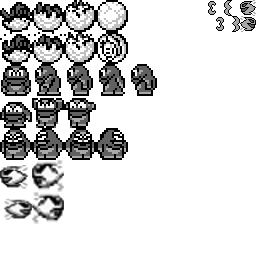
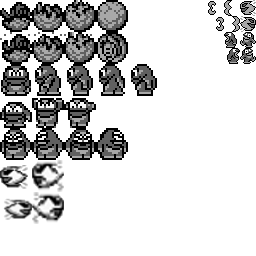
enemy shoot fix
as

Changed region(s): [[0.0, 0.0, 0.5, 0.25], [0.875, 0.125, 1.0, 0.25], [0.0, 0.125, 0.0312, 0.1562]]

diff --git a/EnemyOne.cpp b/EnemyOne.cpp
@@ -11,7 +11,53 @@ EnemyOne::EnemyOne(void)
 void EnemyOne::Draw(int tex_id) {
 	for (int i = 0; i < int(projectiles.size()); ++i) 
 		projectiles[i].Draw(tex_id);
-	Enemy::Draw(tex_id);
+	float xo,yo,xf,yf;
+	
+	switch(state)
+	{
+		case STATE_WALKLEFT:	xo = 0.125f*(1+GetFrame());	yo = 3*0.125f;
+								xf =  0.125f*(2+GetFrame());	yf = 2*0.125; NextFrame(4);
+								break;
+
+		case STATE_WALKRIGHT:	xf = 0.125f*(1+GetFrame());	yo = 3*0.125f;
+								xo =  0.125f*(2+GetFrame());	yf = 2*0.125; NextFrame(4);
+								break;
+
+		case STATE_JUMPLEFT:	xo = 0.125f*(GetFrame());	yo = 4*0.125f;
+								xf =  0.125f*(1+GetFrame());	yf = 3*0.125; NextFrame(3);
+								break;
+		
+		case STATE_JUMPRIGHT:	xf = 0.125f*(GetFrame());	 yo = 4*0.125f;
+								xo =  0.125f*(1+GetFrame());	yf = 3*0.125; NextFrame(3);
+								break;
+		
+		case STATE_LOOKLEFT:	xo = 0;	 yo = 3*0.125f;
+								xf =  0.125f;	yf = 2*0.125; 
+								break;
+		
+		case STATE_LOOKRIGHT:	xo = 0;	 yo = 3*0.125f;
+								xf =  0.125f;	yf = 2*0.125; 
+								break;
+		case STATE_HIT:			xo=0.125*(life-1); xf=xo+0.125;
+								yo=(GetFrame()+1)*0.125; yf = GetFrame()*0.125;
+								NextFrame(2);
+								break;
+		case STATE_SNOWBALL:	xo=0.125*(life-1); xf=xo+0.125; yo=0.125; yf = 0;
+								break;
+        case STATE_STUNNED:	    xo = 0.125f*(GetFrame());	yo = 5*0.125f;
+								xf =  0.125f*(1+GetFrame());	yf = 4*0.125; NextFrame(4);
+								break;
+		case STATE_THROWLEFT:	xo = 14*0.0625f+(seq*0.0625f); yo = 3*0.0625f;
+								xf = xo + 0.0625f;		yf = yo - 0.0625f; 
+								NextFrame(1);
+								break;
+		case STATE_THROWRIGHT:	xo = 14*0.0625f+(seq*0.0625f); yo = 4*0.0625f;
+								xf = xo + 0.0625f;		yf = yo - 0.0625f; 
+								NextFrame(1);
+								break;
+
+	}
+	DrawRect(tex_id,xo,yo,xf,yf);
 }
 
 EnemyOne::~EnemyOne(void)
@@ -23,11 +69,11 @@ void EnemyOne::Logic(int* map)
 	//PROJECTILES
 	if (throwing)  {
 		++timeThrowing;
-		if (timeThrowing > 30) {
+		if (timeThrowing > 25) {
 			timeThrowing = 0;
 			throwing = false;
 		}
-		else if (timeThrowing == THROW_LOAD) {
+		else if (timeThrowing == 20) {
 			int aux = (state == STATE_THROWLEFT) ? 0 : 1;
 			cProjectile p(x,y,w,h,aux,TYPE_2);
 			projectiles.push_back(p);
@@ -54,12 +100,12 @@ void EnemyOne::AI(int *map)
 		if(rand()%1000 <= 5) {
 			Jump(map);
 		}
-		if(rnd < 50) {
+		if(rnd < 68) {
 			MoveLeft(map);
 		}
-		else if (rnd > 50) {
+		else if (rnd > 42) {
 			MoveRight(map);
 		}
 	}
-	if (rand()%1000 < 50) Throw(map);
+	if (rand()%1000 < 18) Throw(map);
 }

diff --git a/cProjectile.cpp b/cProjectile.cpp
@@ -4,22 +4,49 @@
 
 cProjectile::cProjectile(int xx, int yy, int ww, int hh, int dir,int typee)
 {
+	switch(typee) {
+	case TYPE_1:
 		if (dir == 1) {
-			x = xx + ww - 5;
+			x = xx;
 			state = STATE_GO_RIGHT;
 		}
 		else {
-			x = xx +10;
+			x = xx;
 			state = STATE_GO_LEFT;
 		}
 		y = yy + hh/2 - 5;
 		type = typee;
-		w = 24;
-		h = 24;
+		w = 16;
+		h = 16;
+
 		delay = 0;
 		falling_y = yy + hh/2 -5;
 		falling_alfa  = 80;
 		timeAlive = 0;
+		xor = xx;
+		yor = yy+ww-10;
+		break;
+	case TYPE_2:
+		if (dir == 1) {
+			x = xx;
+			state = STATE_GO_RIGHT;
+		}
+		else {
+			x = xx;
+			state = STATE_GO_LEFT;
+		}
+		y = yy;
+		type = typee;
+		w = 32;
+		h = 32;
+		delay = 0;
+		falling_y = yy + hh/2 -5;
+		falling_alfa  = 80;
+		timeAlive = 0;
+		xor = xx;
+		yor = yy;
+		break;
+	}
 }
 
 
@@ -73,10 +100,11 @@ void cProjectile::Logic(int *map)
 		case TYPE_1 :
 			float alfa;
 			if (state== STATE_GO_RIGHT) x += 10;
-			else x -= 10;
+			else x -= 10 ;
 			falling_alfa  += HIGHT_STEP;
 			alfa = ((float)falling_alfa) * 0.017453f;
 			y = falling_y - 195 + (int)( ((float)MAX_HEIGHT) * sin(alfa) );
+			//if (abs(x -xor) > 13) y = int(-1*pow(double((x-xor)/8),2)+yor);
 		break;
 
 		case TYPE_2 :
@@ -92,13 +120,15 @@ bool cProjectile::Destroy(int* map)
 	switch(type)
 	{
 		case TYPE_1 :
-			return (CollidesMapFloor(map) ||
-			CollidesMapWall(map, false) ||
+			return (CollidesMapFloor(map)	||
+			CollidesMapWall(map, false)		||
 			CollidesMapWall(map, true));
 		break;
 
 		case TYPE_2 :
-			return (timeAlive == 50);
+			return (timeAlive == 50				|| 
+					CollidesMapWall(map, false) ||
+					CollidesMapWall(map, true));
 		break;
 	}
 	return false;

diff --git a/Enemy.cpp b/Enemy.cpp
@@ -17,51 +17,6 @@ void Enemy::init() {
 
 void Enemy::Draw(int tex_id)
 {	
-	float xo,yo,xf,yf;
-	
-	switch(state)
-	{
-		case STATE_WALKLEFT:	xo = 0.125f*(1+GetFrame());	yo = 3*0.125f;
-								xf =  0.125f*(2+GetFrame());	yf = 2*0.125; NextFrame(4);
-								break;
-
-		case STATE_WALKRIGHT:	xf = 0.125f*(1+GetFrame());	yo = 3*0.125f;
-								xo =  0.125f*(2+GetFrame());	yf = 2*0.125; NextFrame(4);
-								break;
-
-		case STATE_JUMPLEFT:	xo = 0.125f*(GetFrame());	yo = 4*0.125f;
-								xf =  0.125f*(1+GetFrame());	yf = 3*0.125; NextFrame(3);
-								break;
-		
-		case STATE_JUMPRIGHT:	xf = 0.125f*(GetFrame());	 yo = 4*0.125f;
-								xo =  0.125f*(1+GetFrame());	yf = 3*0.125; NextFrame(3);
-								break;
-		
-		case STATE_LOOKLEFT:	xo = 0;	 yo = 3*0.125f;
-								xf =  0.125f;	yf = 2*0.125; 
-								break;
-		
-		case STATE_LOOKRIGHT:	xo = 0;	 yo = 3*0.125f;
-								xf =  0.125f;	yf = 2*0.125; 
-								break;
-		case STATE_HIT:			xo=0.125*(life-1); xf=xo+0.125;
-								yo=(GetFrame()+1)*0.125; yf = GetFrame()*0.125;
-								NextFrame(2);
-								break;
-		case STATE_SNOWBALL:	xo=0.125*(life-1); xf=xo+0.125; yo=0.125; yf = 0;
-								break;
-        case STATE_STUNNED:	    xo = 0.125f*(GetFrame());	yo = 5*0.125f;
-								xf =  0.125f*(1+GetFrame());	yf = 4*0.125; NextFrame(4);
-								break;
-		case STATE_THROWLEFT:	xo = 0;	 yo = 3*0.125f;
-								xf =  0.125f;	yf = 2*0.125;
-								break;
-		case STATE_THROWRIGHT:	xo = 0;	 yo = 3*0.125f;
-								xf =  0.125f;	yf = 2*0.125; 
-								break;
-
-	}
-	DrawRect(tex_id,xo,yo,xf,yf);
 }
 
 void Enemy::GetTimecount(int* t){

diff --git a/Enemy.h b/Enemy.h
@@ -23,7 +23,7 @@ public:
 	void GetLife(int* l);
 	void GetTimecount(int* t);
 
-private:
+protected:
 	int amountOfSnow;
 	int points;
 	int movsps;

diff --git a/cProjectile.h b/cProjectile.h
@@ -22,5 +22,6 @@ private:
 	int falling_y;
 	int type;
 	int timeAlive;
+	int xor, yor;
 };
 
